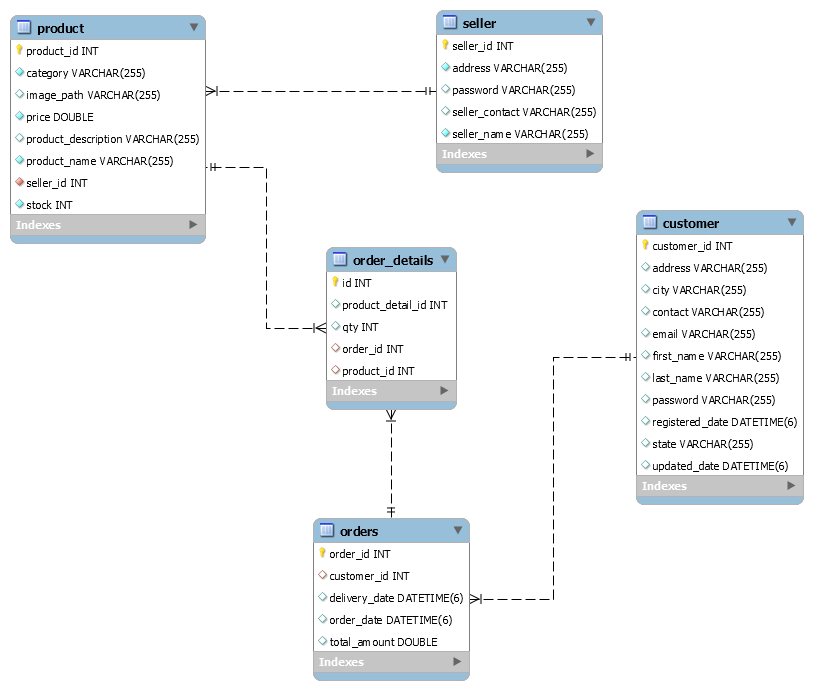
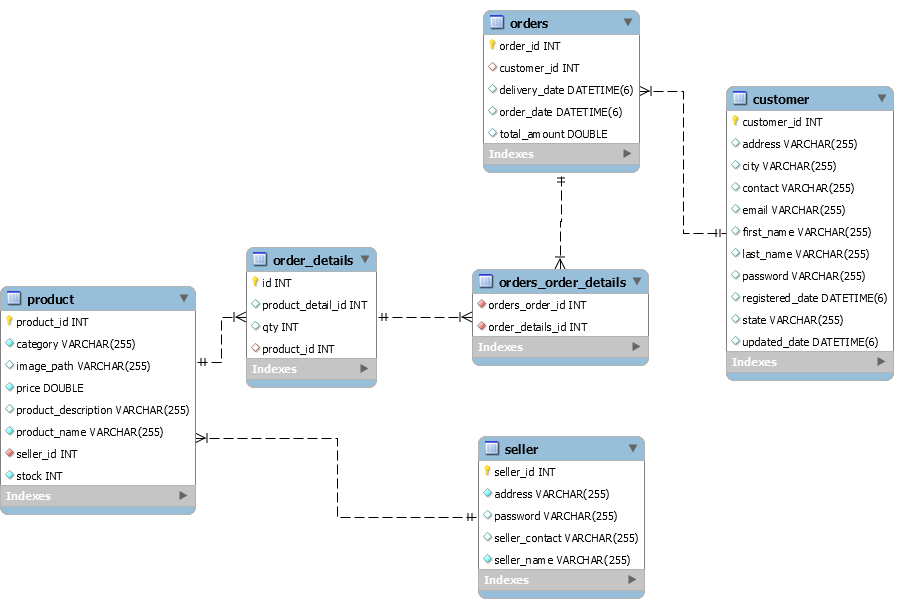
Updated models

diff --git a/src/main/java/com/foodtruck/shop/model/OrderDetails.java b/src/main/java/com/foodtruck/shop/model/OrderDetails.java
@@ -1,4 +1,4 @@
-package com.foodtruck.shop.model;
+package com.foodtruck.shop.Model;
 
 
 import javax.persistence.Entity;
@@ -13,23 +13,23 @@ import javax.persistence.OneToOne;
 public class OrderDetails {
 
 	
-	//private Integer orderId;
-	
-	private Integer productDetailId;
-	
+//	private Integer orderId;
+		
 	@Id
 	@GeneratedValue(strategy = GenerationType.IDENTITY)
 	private int id;
 	
+	private Integer productDetailId;
+
 	private Integer qty;
 	
 	@OneToOne
 	@JoinColumn(name = "productId")
 	private Product product;
 	
-	@ManyToOne
-	@JoinColumn(name="orderId")
-	private Orders order;
+	// @ManyToOne
+	// @JoinColumn(name="orderId")
+	// private Integer order;
 
 	public int getId() {
 		return id;
@@ -56,27 +56,36 @@ public class OrderDetails {
 		this.product = product;
 	}
 
-	public Orders getOrder() {
-		return order;
-	}
+//	public Integer getOrder() {
+//		return order;
+//	}
+//
+//	public void setOrder(Integer order) {
+//		this.order = order;
+//	}
 
-	public void setOrder(Orders order) {
-		this.order = order;
-	}
-
+	
 
 	public Integer getProductDetailId() {
 		return productDetailId;
 	}
 
+//	public Integer getOrderId() {
+//		return orderId;
+//	}
+//
+//	public void setOrderId(Integer orderId) {
+//		this.orderId = orderId;
+//	}
+
 	public void setProductDetailId(Integer productDetailId) {
 		this.productDetailId = productDetailId;
 	}
+	
 
 	@Override
 	public String toString() {
-		return "OrderDetails [productId=" + productDetailId + ", id=" + id + ", qty=" + qty + ", product=" + product
-				+ ", order=" + order + "]";
+		return "OrderDetails [productId=" + productDetailId + ", id=" + id + ", qty=" + qty + ", product=" + product + "]";
 	}
 	
 	

diff --git a/src/main/java/com/foodtruck/shop/Controller/OrderController.java b/src/main/java/com/foodtruck/shop/Controller/OrderController.java
@@ -1,0 +1,57 @@
+package com.foodtruck.shop.Controller;
+
+import java.util.ArrayList;
+import java.util.Date;
+import java.util.List;
+
+import org.springframework.beans.factory.annotation.Autowired;
+import org.springframework.web.bind.annotation.RequestMapping;
+import org.springframework.web.bind.annotation.RestController;
+
+import com.foodtruck.shop.Model.OrderDetails;
+import com.foodtruck.shop.Model.Orders;
+import com.foodtruck.shop.Repository.OrderDetailsRepo;
+import com.foodtruck.shop.Repository.OrdersRepo;
+import com.foodtruck.shop.Repository.ProductRepo;
+
+@RestController
+public class OrderController {
+
+	@Autowired
+	private OrdersRepo orderRepo;
+	
+	@Autowired
+	private OrderDetailsRepo orderDetailsRepo;
+	
+	@Autowired
+	private ProductRepo productRepo;
+	
+	@RequestMapping
+	public void newOrder() {
+		Orders o = new Orders();
+		o.setCustomerId(2);
+		o.setDeliveryDate(new Date());
+		o.setOrderDate(new Date());
+		o.setTotalAmount(30.0);
+		List<OrderDetails> l = new ArrayList<>();
+		o.setOrderDetails(l);
+		OrderDetails d = new OrderDetails();		
+		d.setProductDetailId(5);
+		d.setQty(1);
+		d.setProduct(productRepo.getOne(5));
+		OrderDetails od = orderDetailsRepo.save(d);
+		
+		o.getOrderDetails().add(od);
+		OrderDetails dd = new OrderDetails();		
+		dd.setProductDetailId(4);
+		dd.setQty(12);
+		dd.setProduct(productRepo.getOne(4));
+		OrderDetails ood = orderDetailsRepo.save(dd);
+		
+		o.getOrderDetails().add(ood);
+		
+		orderRepo.save(o);
+		orderRepo.findAll().forEach(k -> System.out.println(k + "\n----> " +k.getOrderDetails()));
+		System.out.println(orderDetailsRepo.getOne(2).getProduct());
+	}
+}

diff --git a/src/main/java/com/foodtruck/shop/model/Seller.java b/src/main/java/com/foodtruck/shop/model/Seller.java
@@ -1,5 +1,6 @@
-package com.foodtruck.shop.model;
+package com.foodtruck.shop.Model;
 
+import java.util.ArrayList;
 import java.util.List;
 
 import javax.persistence.Column;
@@ -7,7 +8,6 @@ import javax.persistence.Entity;
 import javax.persistence.GeneratedValue;
 import javax.persistence.GenerationType;
 import javax.persistence.Id;
-import javax.persistence.JoinColumn;
 import javax.persistence.OneToMany;
 
 @Entity
@@ -29,7 +29,7 @@ public class Seller {
 	
 	@OneToMany(mappedBy = "sellerId")
 	// @JoinColumn(name="sellerId")
-	private List<Product> products;
+	private List<Product> products = new ArrayList<>();
 
 	public String getSellerName() {
 		return sellerName;
@@ -79,6 +79,11 @@ public class Seller {
 	public void setSellerId(Integer sellerId) {
 		this.sellerId = sellerId;
 	}
+	
+	public void addNewProduct(Product product) {
+		this.products.add(product);
+	}
+	
 
 	@Override
 	public String toString() {

diff --git a/src/main/java/com/foodtruck/shop/Controller/ProductController.java b/src/main/java/com/foodtruck/shop/Controller/ProductController.java
@@ -1,0 +1,29 @@
+package com.foodtruck.shop.Controller;
+
+import org.springframework.beans.factory.annotation.Autowired;
+import org.springframework.web.bind.annotation.RequestMapping;
+import org.springframework.web.bind.annotation.RestController;
+
+import com.foodtruck.shop.Model.Product;
+import com.foodtruck.shop.Service.ProductService;
+
+// @RestController
+public class ProductController {
+
+	@Autowired
+	private ProductService productService;
+	
+	// @RequestMapping
+	public String addNewProduct() {
+		Product p = new Product();
+		p.setCategory("mobile");
+		p.setImagePath("pathk");
+		p.setPrice(112.0);
+		p.setProductDescription("working");
+		p.setProductName("vivo");
+		p.setStock(1000);
+		p.setSellerId(1);
+		productService.addNewProduct(p);
+		return p.toString();
+	}
+}

diff --git a/src/main/java/com/foodtruck/shop/model/Orders.java b/src/main/java/com/foodtruck/shop/model/Orders.java
@@ -1,5 +1,6 @@
-package com.foodtruck.shop.model;
+package com.foodtruck.shop.Model;
 
+import java.util.ArrayList;
 import java.util.Date;
 import java.util.List;
 
@@ -24,8 +25,8 @@ public class Orders {
 	
 	private Double totalAmount;
 
-	@OneToMany(mappedBy= "order")
-	private List<OrderDetails> orderDetails;
+	@OneToMany
+	private List<OrderDetails> orderDetails = new ArrayList<>();
 
 	public Integer getOrderId() {
 		return orderId;
@@ -73,6 +74,7 @@ public class Orders {
 
 	public void setOrderDetails(List<OrderDetails> orderDetails) {
 		this.orderDetails = orderDetails;
+		
 	}
 
 	@Override

diff --git a/src/main/java/com/foodtruck/shop/model/Customer.java b/src/main/java/com/foodtruck/shop/model/Customer.java
@@ -1,5 +1,6 @@
-package com.foodtruck.shop.model;
+package com.foodtruck.shop.Model;
 
+import java.util.ArrayList;
 import java.util.Date;
 import java.util.List;
 
@@ -39,7 +40,7 @@ public class Customer {
 	
 	@OneToMany
 	@JoinColumn(name="customerId")
-	private List<Orders> orders;
+	private List<Orders> orders = new ArrayList<>();
 
 	public Integer getCustomerId() {
 		return customerId;

diff --git a/src/main/java/com/foodtruck/shop/model/Product.java b/src/main/java/com/foodtruck/shop/model/Product.java
@@ -1,4 +1,4 @@
-package com.foodtruck.shop.model;
+package com.foodtruck.shop.Model;
 
 import javax.persistence.Column;
 import javax.persistence.Entity;
